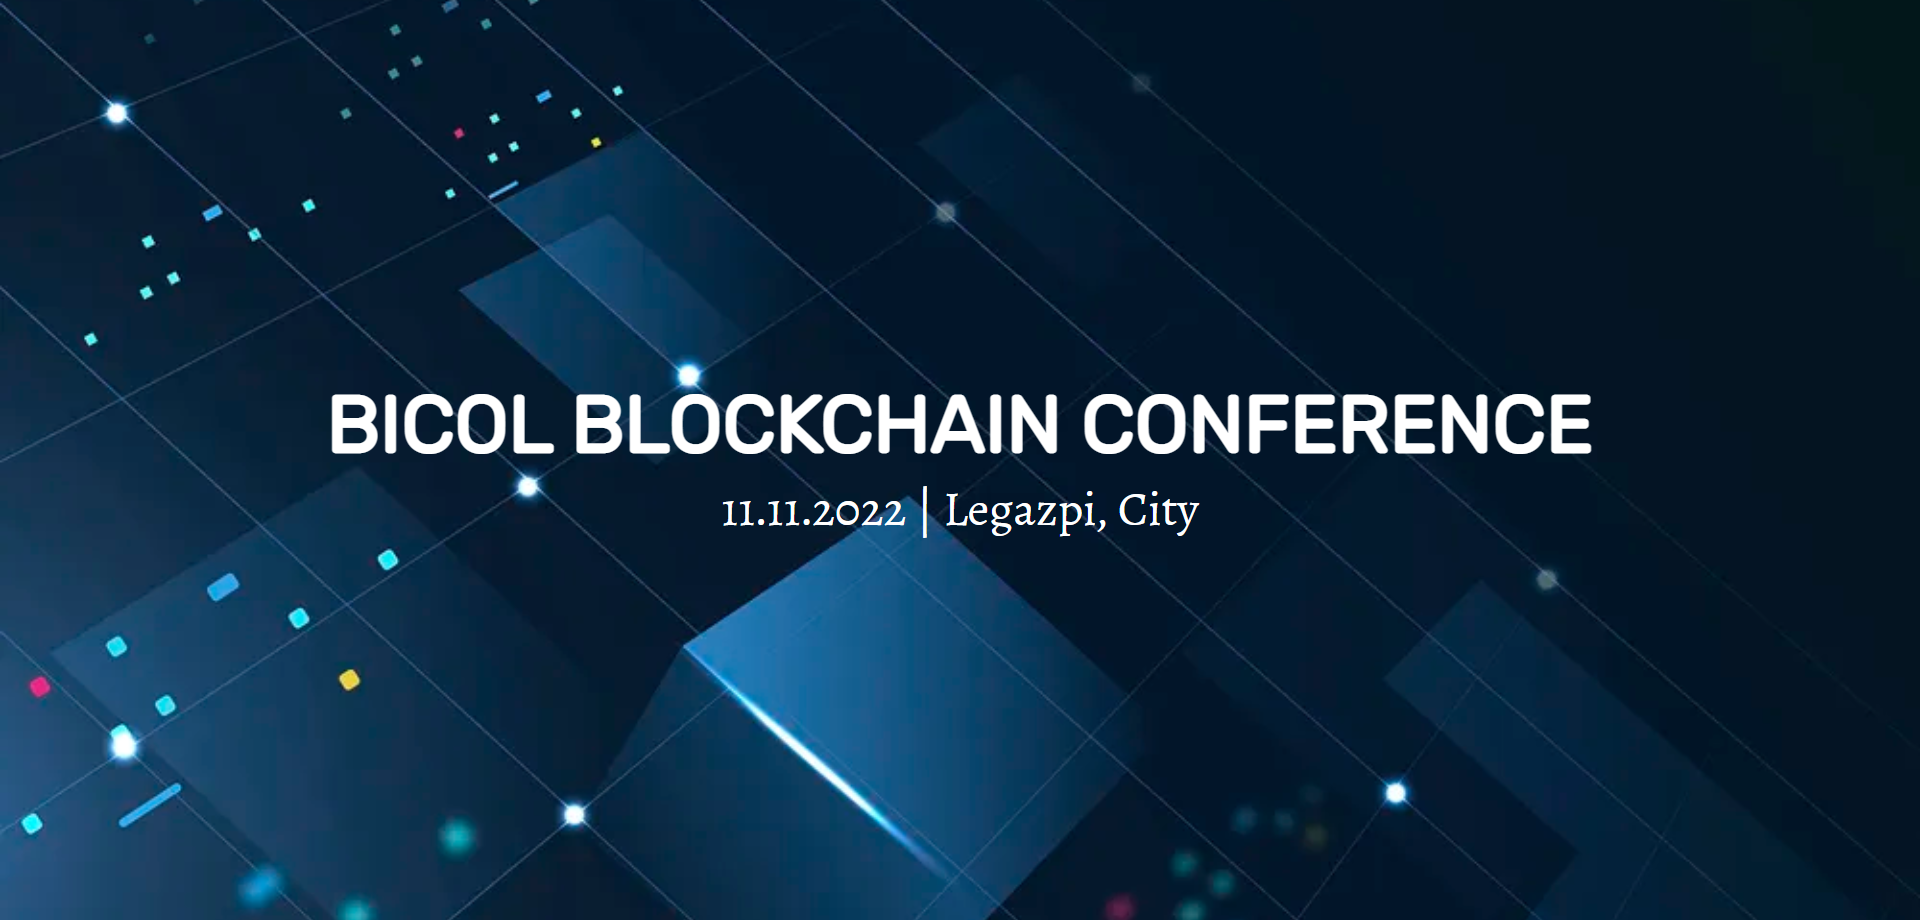
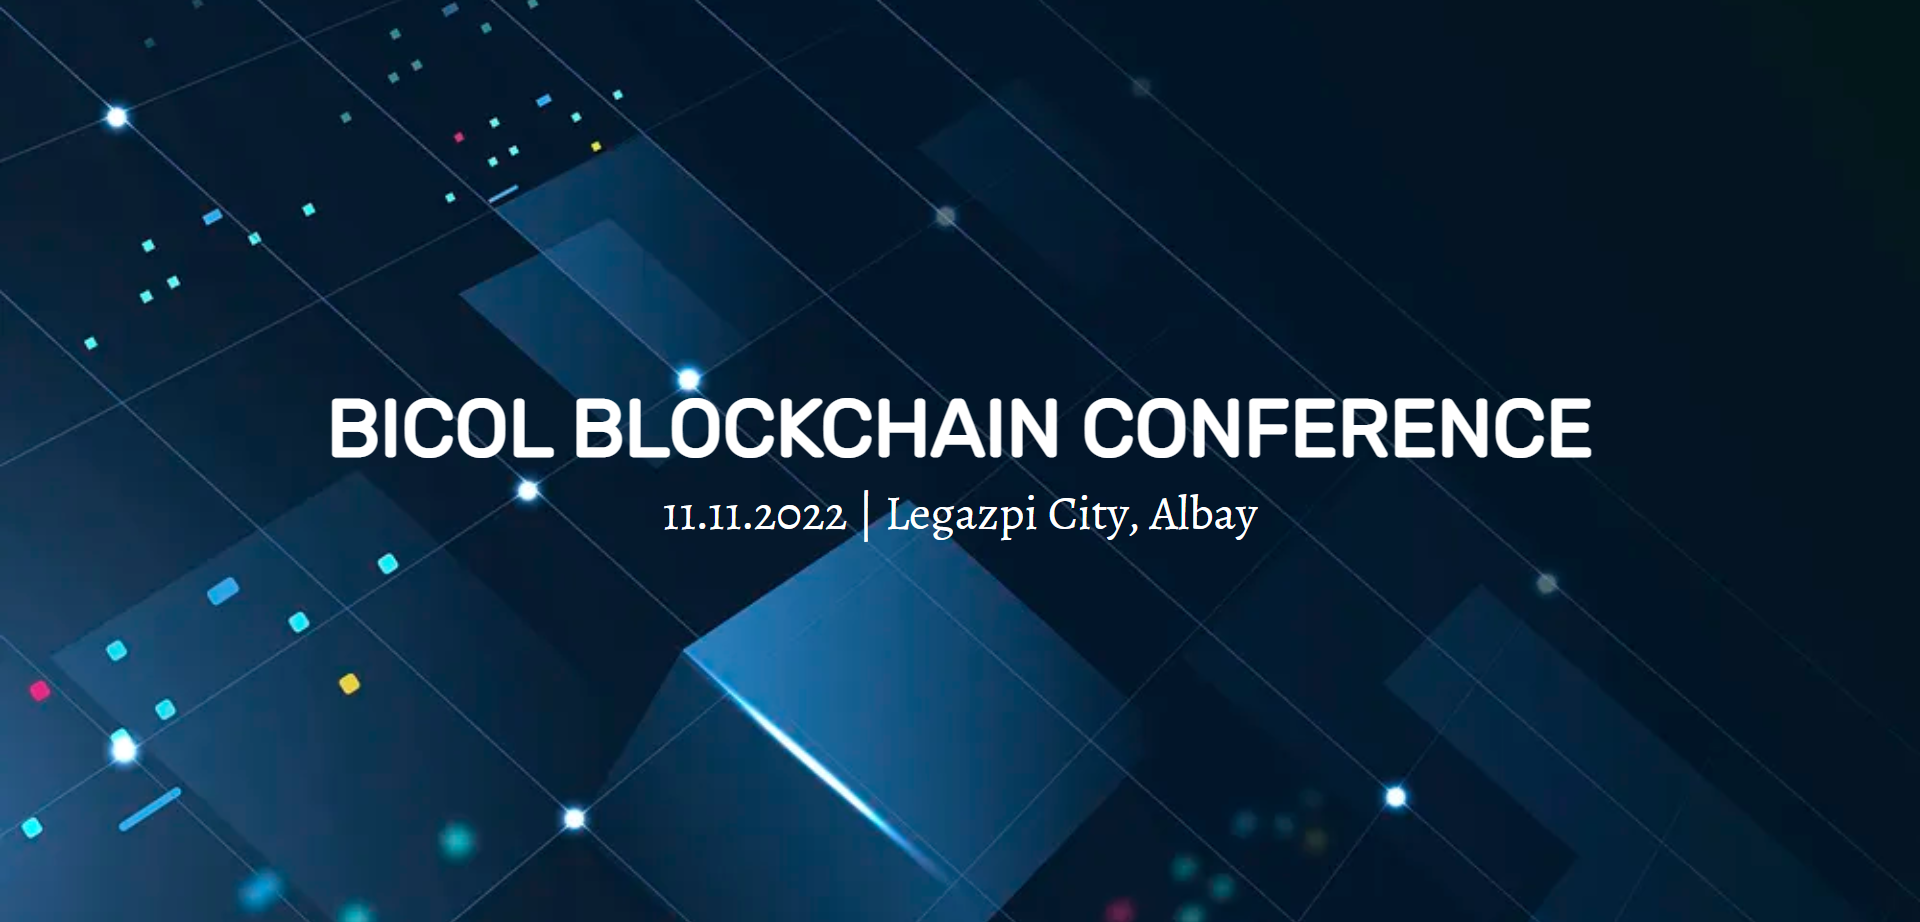
Updates

diff --git a/index.html b/index.html
@@ -1,1 +1,1 @@
-<!doctype html><html lang="en"><head><meta charset="utf-8"/><link rel="icon" href="/own-token.webp"/><meta name="viewport" content="width=device-width,initial-scale=1"><meta name="title" content="Bicol Blockchain Conference 2022"/><meta name="description" content="11.11.2022 | Legazpi City, Albay"><meta name="author" content="Ownly"><meta property="og:url" content="http://bicolblockchain.com"/><meta property="og:type" content="website"/><meta property="og:title" content="Bicol Blockchain Conference 2022"/><meta property="og:description" content="11.11.2022 | Legazpi City, Albay"/><meta property="og:image" content="http://bicolblockchain.com/og-img.png"/><title>Bicol Blockchain Conference 2022</title><link href="/static/css/2.4be38407.chunk.css" rel="stylesheet"><link href="/static/css/main.d6085dad.chunk.css" rel="stylesheet"></head><body><noscript>You need to enable JavaScript to run this app.</noscript><div id="root"></div><script>!function(e){function r(r){for(var n,i,a=r[0],c=r[1],l=r[2],s=0,p=[];s<a.length;s++)i=a[s],Object.prototype.hasOwnProperty.call(o,i)&&o[i]&&p.push(o[i][0]),o[i]=0;for(n in c)Object.prototype.hasOwnProperty.call(c,n)&&(e[n]=c[n]);for(f&&f(r);p.length;)p.shift()();return u.push.apply(u,l||[]),t()}function t(){for(var e,r=0;r<u.length;r++){for(var t=u[r],n=!0,a=1;a<t.length;a++){var c=t[a];0!==o[c]&&(n=!1)}n&&(u.splice(r--,1),e=i(i.s=t[0]))}return e}var n={},o={1:0},u=[];function i(r){if(n[r])return n[r].exports;var t=n[r]={i:r,l:!1,exports:{}};return e[r].call(t.exports,t,t.exports,i),t.l=!0,t.exports}i.e=function(e){var r=[],t=o[e];if(0!==t)if(t)r.push(t[2]);else{var n=new Promise((function(r,n){t=o[e]=[r,n]}));r.push(t[2]=n);var u,a=document.createElement("script");a.charset="utf-8",a.timeout=120,i.nc&&a.setAttribute("nonce",i.nc),a.src=function(e){return i.p+"static/js/"+({}[e]||e)+"."+{3:"c24b2405"}[e]+".chunk.js"}(e);var c=new Error;u=function(r){a.onerror=a.onload=null,clearTimeout(l);var t=o[e];if(0!==t){if(t){var n=r&&("load"===r.type?"missing":r.type),u=r&&r.target&&r.target.src;c.message="Loading chunk "+e+" failed.\n("+n+": "+u+")",c.name="ChunkLoadError",c.type=n,c.request=u,t[1](c)}o[e]=void 0}};var l=setTimeout((function(){u({type:"timeout",target:a})}),12e4);a.onerror=a.onload=u,document.head.appendChild(a)}return Promise.all(r)},i.m=e,i.c=n,i.d=function(e,r,t){i.o(e,r)||Object.defineProperty(e,r,{enumerable:!0,get:t})},i.r=function(e){"undefined"!=typeof Symbol&&Symbol.toStringTag&&Object.defineProperty(e,Symbol.toStringTag,{value:"Module"}),Object.defineProperty(e,"__esModule",{value:!0})},i.t=function(e,r){if(1&r&&(e=i(e)),8&r)return e;if(4&r&&"object"==typeof e&&e&&e.__esModule)return e;var t=Object.create(null);if(i.r(t),Object.defineProperty(t,"default",{enumerable:!0,value:e}),2&r&&"string"!=typeof e)for(var n in e)i.d(t,n,function(r){return e[r]}.bind(null,n));return t},i.n=function(e){var r=e&&e.__esModule?function(){return e.default}:function(){return e};return i.d(r,"a",r),r},i.o=function(e,r){return Object.prototype.hasOwnProperty.call(e,r)},i.p="/",i.oe=function(e){throw console.error(e),e};var a=this.webpackJsonpbbc=this.webpackJsonpbbc||[],c=a.push.bind(a);a.push=r,a=a.slice();for(var l=0;l<a.length;l++)r(a[l]);var f=c;t()}([])</script><script src="/static/js/2.d364e29d.chunk.js"></script><script src="/static/js/main.0cce8b14.chunk.js"></script></body></html>
+<!doctype html><html lang="en"><head><meta charset="utf-8"/><link rel="icon" href="/own-token.webp"/><meta name="viewport" content="width=device-width,initial-scale=1"><meta name="title" content="Bicol Blockchain Conference 2022"/><meta name="description" content="11.11.2022 | Legazpi City, Albay"><meta name="author" content="Ownly"><meta property="og:url" content="https://bicolblockchain.com"/><meta property="og:type" content="website"/><meta property="og:title" content="Bicol Blockchain Conference 2022"/><meta property="og:description" content="11.11.2022 | Legazpi City, Albay"/><meta property="og:image" content="https://bicolblockchain.com/og-img.png"/><title>Bicol Blockchain Conference 2022</title><link href="/static/css/2.4be38407.chunk.css" rel="stylesheet"><link href="/static/css/main.d6085dad.chunk.css" rel="stylesheet"></head><body><noscript>You need to enable JavaScript to run this app.</noscript><div id="root"></div><script>!function(e){function r(r){for(var n,i,a=r[0],c=r[1],l=r[2],s=0,p=[];s<a.length;s++)i=a[s],Object.prototype.hasOwnProperty.call(o,i)&&o[i]&&p.push(o[i][0]),o[i]=0;for(n in c)Object.prototype.hasOwnProperty.call(c,n)&&(e[n]=c[n]);for(f&&f(r);p.length;)p.shift()();return u.push.apply(u,l||[]),t()}function t(){for(var e,r=0;r<u.length;r++){for(var t=u[r],n=!0,a=1;a<t.length;a++){var c=t[a];0!==o[c]&&(n=!1)}n&&(u.splice(r--,1),e=i(i.s=t[0]))}return e}var n={},o={1:0},u=[];function i(r){if(n[r])return n[r].exports;var t=n[r]={i:r,l:!1,exports:{}};return e[r].call(t.exports,t,t.exports,i),t.l=!0,t.exports}i.e=function(e){var r=[],t=o[e];if(0!==t)if(t)r.push(t[2]);else{var n=new Promise((function(r,n){t=o[e]=[r,n]}));r.push(t[2]=n);var u,a=document.createElement("script");a.charset="utf-8",a.timeout=120,i.nc&&a.setAttribute("nonce",i.nc),a.src=function(e){return i.p+"static/js/"+({}[e]||e)+"."+{3:"c24b2405"}[e]+".chunk.js"}(e);var c=new Error;u=function(r){a.onerror=a.onload=null,clearTimeout(l);var t=o[e];if(0!==t){if(t){var n=r&&("load"===r.type?"missing":r.type),u=r&&r.target&&r.target.src;c.message="Loading chunk "+e+" failed.\n("+n+": "+u+")",c.name="ChunkLoadError",c.type=n,c.request=u,t[1](c)}o[e]=void 0}};var l=setTimeout((function(){u({type:"timeout",target:a})}),12e4);a.onerror=a.onload=u,document.head.appendChild(a)}return Promise.all(r)},i.m=e,i.c=n,i.d=function(e,r,t){i.o(e,r)||Object.defineProperty(e,r,{enumerable:!0,get:t})},i.r=function(e){"undefined"!=typeof Symbol&&Symbol.toStringTag&&Object.defineProperty(e,Symbol.toStringTag,{value:"Module"}),Object.defineProperty(e,"__esModule",{value:!0})},i.t=function(e,r){if(1&r&&(e=i(e)),8&r)return e;if(4&r&&"object"==typeof e&&e&&e.__esModule)return e;var t=Object.create(null);if(i.r(t),Object.defineProperty(t,"default",{enumerable:!0,value:e}),2&r&&"string"!=typeof e)for(var n in e)i.d(t,n,function(r){return e[r]}.bind(null,n));return t},i.n=function(e){var r=e&&e.__esModule?function(){return e.default}:function(){return e};return i.d(r,"a",r),r},i.o=function(e,r){return Object.prototype.hasOwnProperty.call(e,r)},i.p="/",i.oe=function(e){throw console.error(e),e};var a=this.webpackJsonpbbc=this.webpackJsonpbbc||[],c=a.push.bind(a);a.push=r,a=a.slice();for(var l=0;l<a.length;l++)r(a[l]);var f=c;t()}([])</script><script src="/static/js/2.d364e29d.chunk.js"></script><script src="/static/js/main.a1742ff5.chunk.js"></script></body></html>

diff --git a/static/js/main.a1742ff5.chunk.js b/static/js/main.a1742ff5.chunk.js
@@ -1,0 +1,2 @@
+(this.webpackJsonpbbc=this.webpackJsonpbbc||[]).push([[0],{11:function(e,t,n){},35:function(e,t,n){},38:function(e,t,n){"use strict";n.r(t);var c=n(1),i=n.n(c),s=n(6),a=n.n(s),r=(n(11),n(12),n(13),n(35),n.p+"static/media/bg.b14abb83.webp"),l=n(0);var o=function(){return Object(l.jsx)("section",{id:"app",className:"background-image-cover h-screen",style:{backgroundImage:"url(".concat(r,")")},children:Object(l.jsx)("div",{className:"container h-full",children:Object(l.jsx)("div",{className:"d-flex justify-content-center align-items-center h-full",children:Object(l.jsxs)("div",{className:"app-wrap",children:[Object(l.jsx)("h1",{className:"app-title text-center font-size-280 font-size-md-350 font-size-lg-430 font-size-xl-500 text-white rubik-regular",children:"BICOL BLOCKCHAIN CONFERENCE"}),Object(l.jsx)("p",{className:"app-sub text-center font-size-150 font-size-md-180 font-size-lg-230 font-size-xl-300 text-white alegreya-regular mb-0",children:"11.11.2022 | Legazpi City, Albay"})]})})})})},b=function(e){e&&e instanceof Function&&n.e(3).then(n.bind(null,41)).then((function(t){var n=t.getCLS,c=t.getFID,i=t.getFCP,s=t.getLCP,a=t.getTTFB;n(e),c(e),i(e),s(e),a(e)}))};a.a.render(Object(l.jsx)(i.a.StrictMode,{children:Object(l.jsx)(o,{})}),document.getElementById("root")),b()}},[[38,1,2]]]);
+//# sourceMappingURL=main.a1742ff5.chunk.js.map
